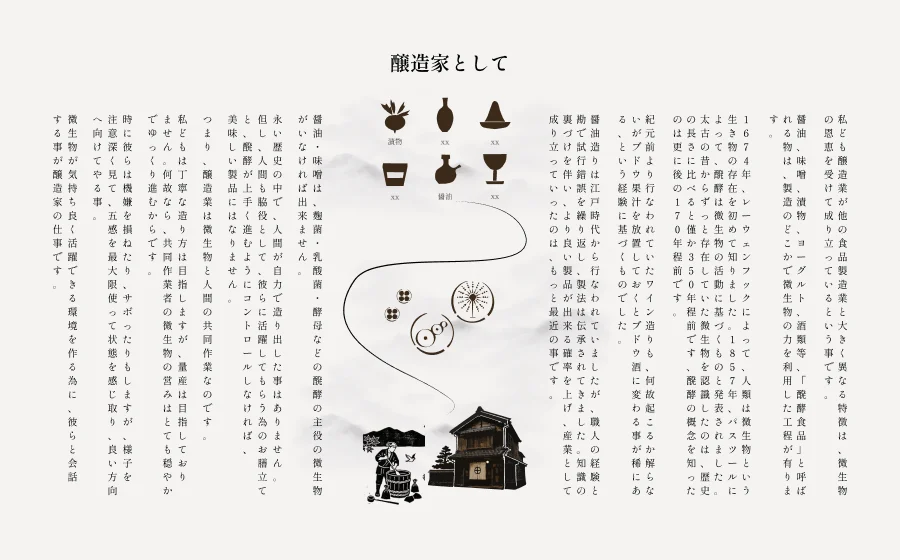
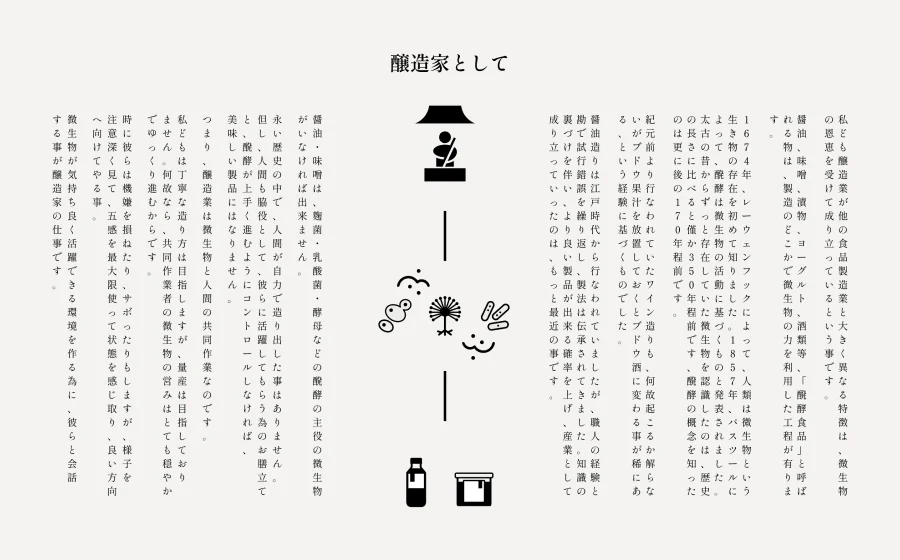
feat(nakahatsu-sy): design system figure rebuilt from Figma (JP, EN), redrawn rejected About A-1/A-2

diff --git a/app/[locale]/work/nakahatsu-sy/NakahatsuSy.tsx b/app/[locale]/work/nakahatsu-sy/NakahatsuSy.tsx
@@ -469,7 +469,7 @@ const NakahatsuSy: React.FC<{ launched: boolean }> = () => {
               {/* 色の図のあとに、ストアのテーマの文字・サイズ・色・余白の図（デザインシステム）。Figma の Step/5 の下と同じ */}
               {s.fig === 'palette' && (
                 <div className="w-full overflow-hidden rounded-media">
-                  <Image src={`/work/nakahatsu/design-system-${language === 'jp' ? 'jp' : 'en'}.webp`} alt={t('dsAlt')} width={language === 'jp' ? 1378 : 1449} height={language === 'jp' ? 1007 : 1089}className="h-auto w-full" />
+                  <Image src={`/work/nakahatsu/design-system-${language === 'jp' ? 'jp' : 'en'}.webp`} alt={t('dsAlt')} width={2176} height={language === 'jp' ? 1266 : 1302} className="h-auto w-full" />
                 </div>
               )}
               {/* 3つの言語: ヒーローの図のあとに、スマートフォン幅の商品ページ（文字の部分）を並べた図を足す。住所・フッターは写さない */}
